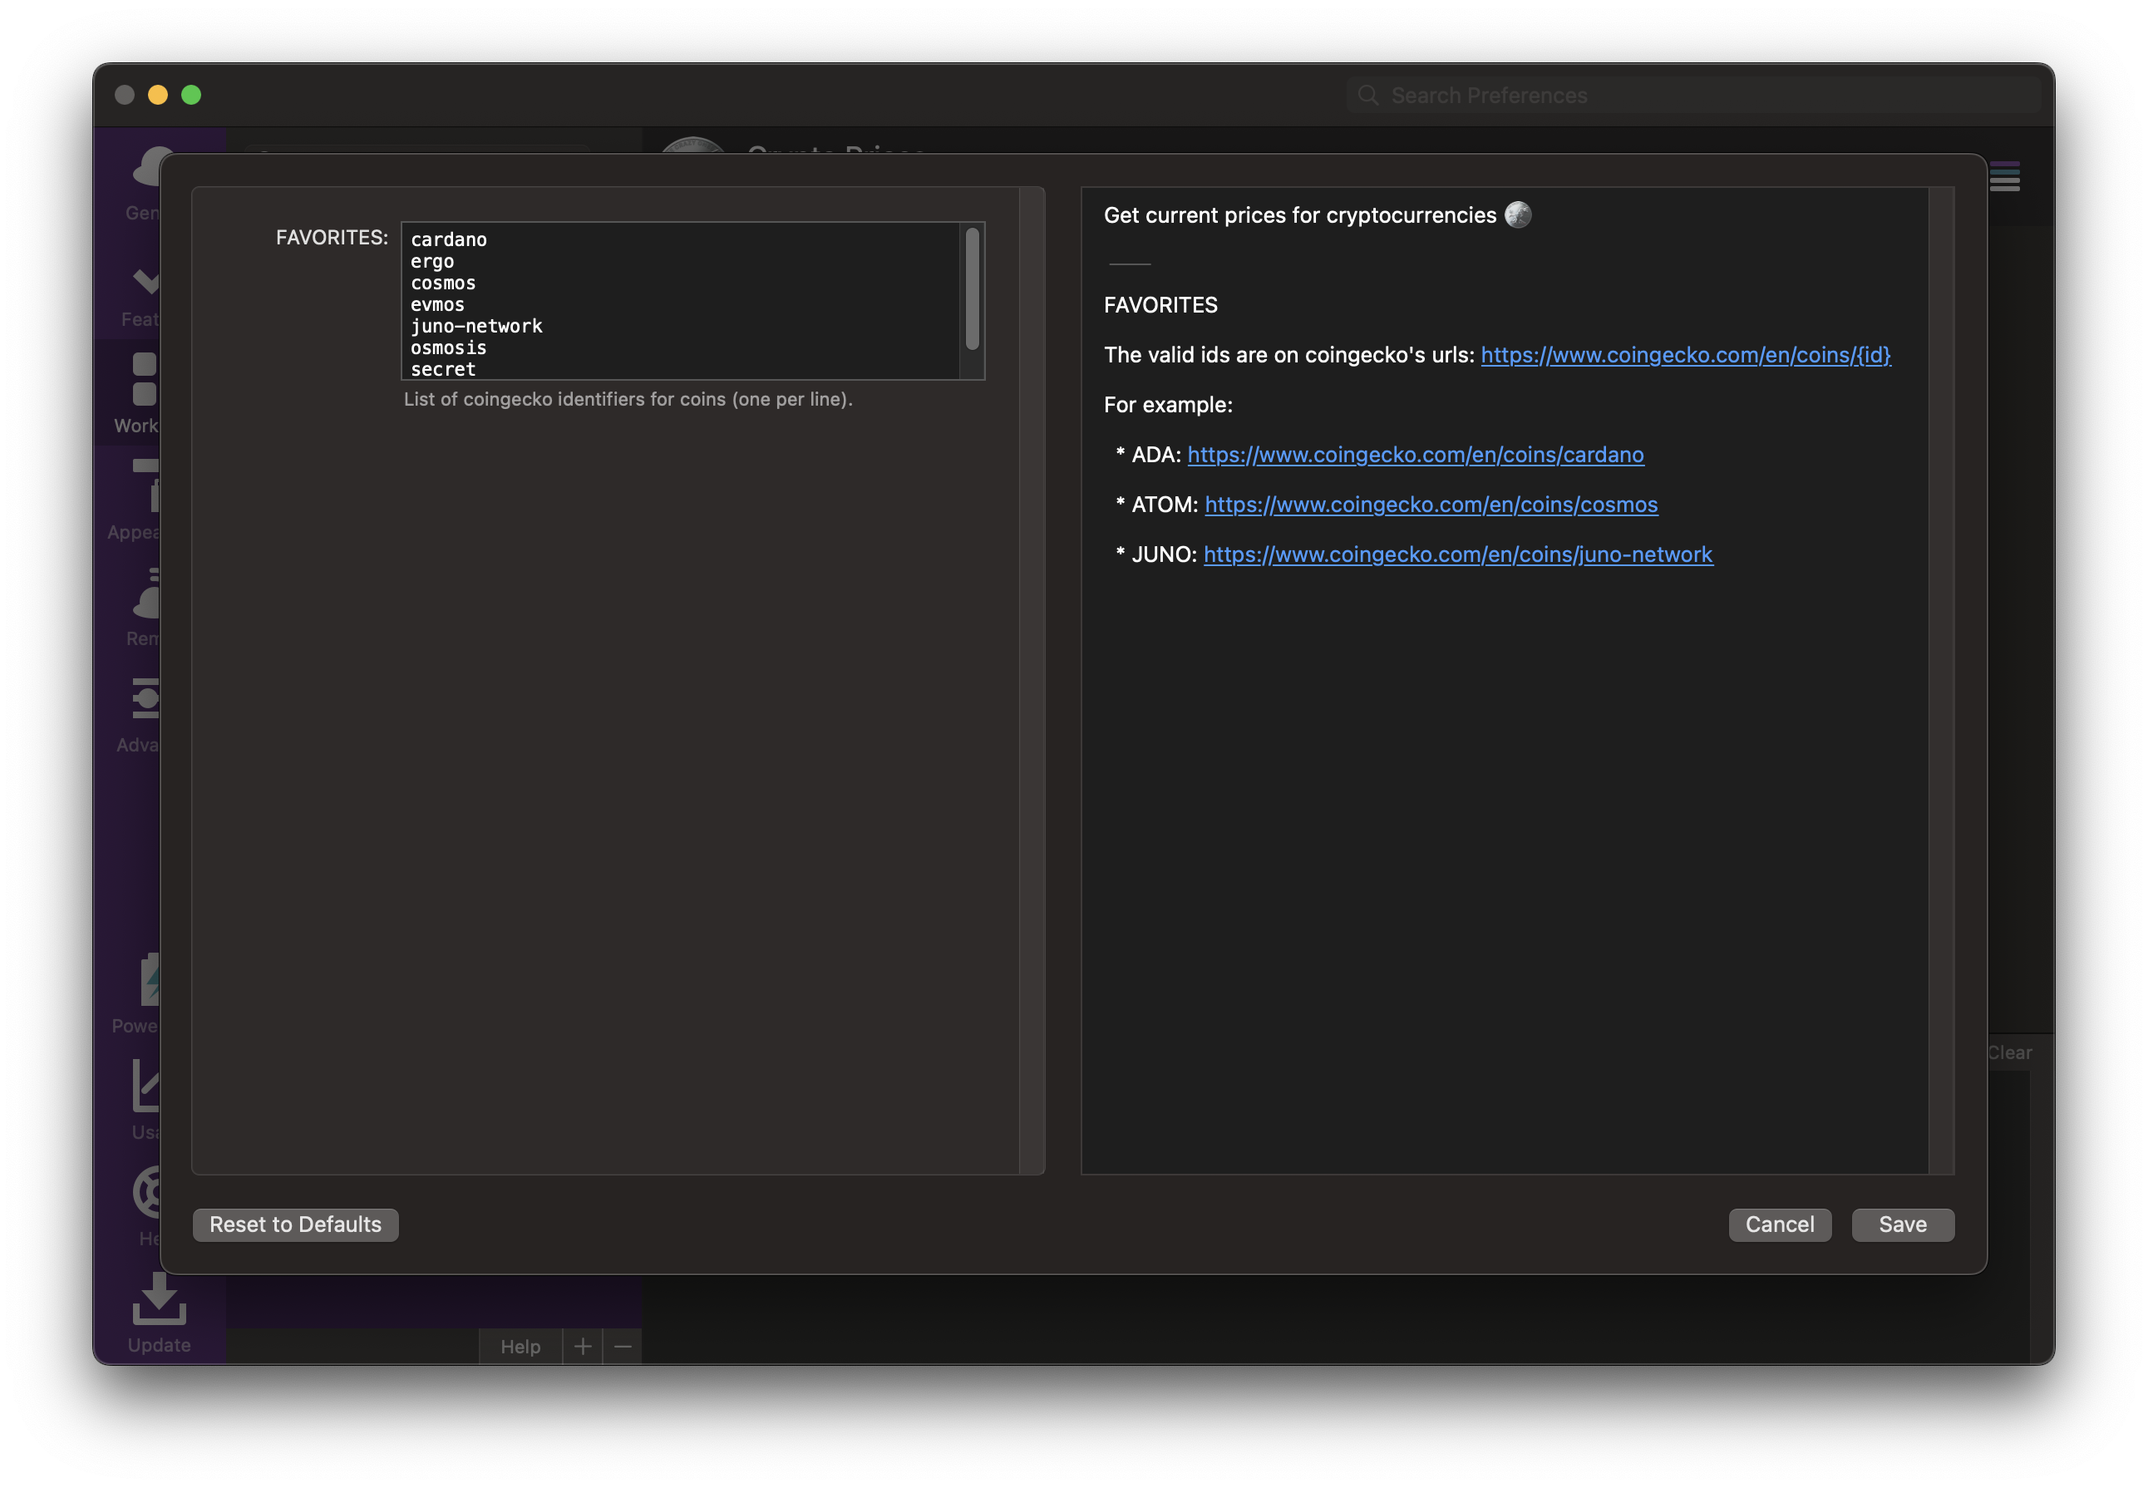
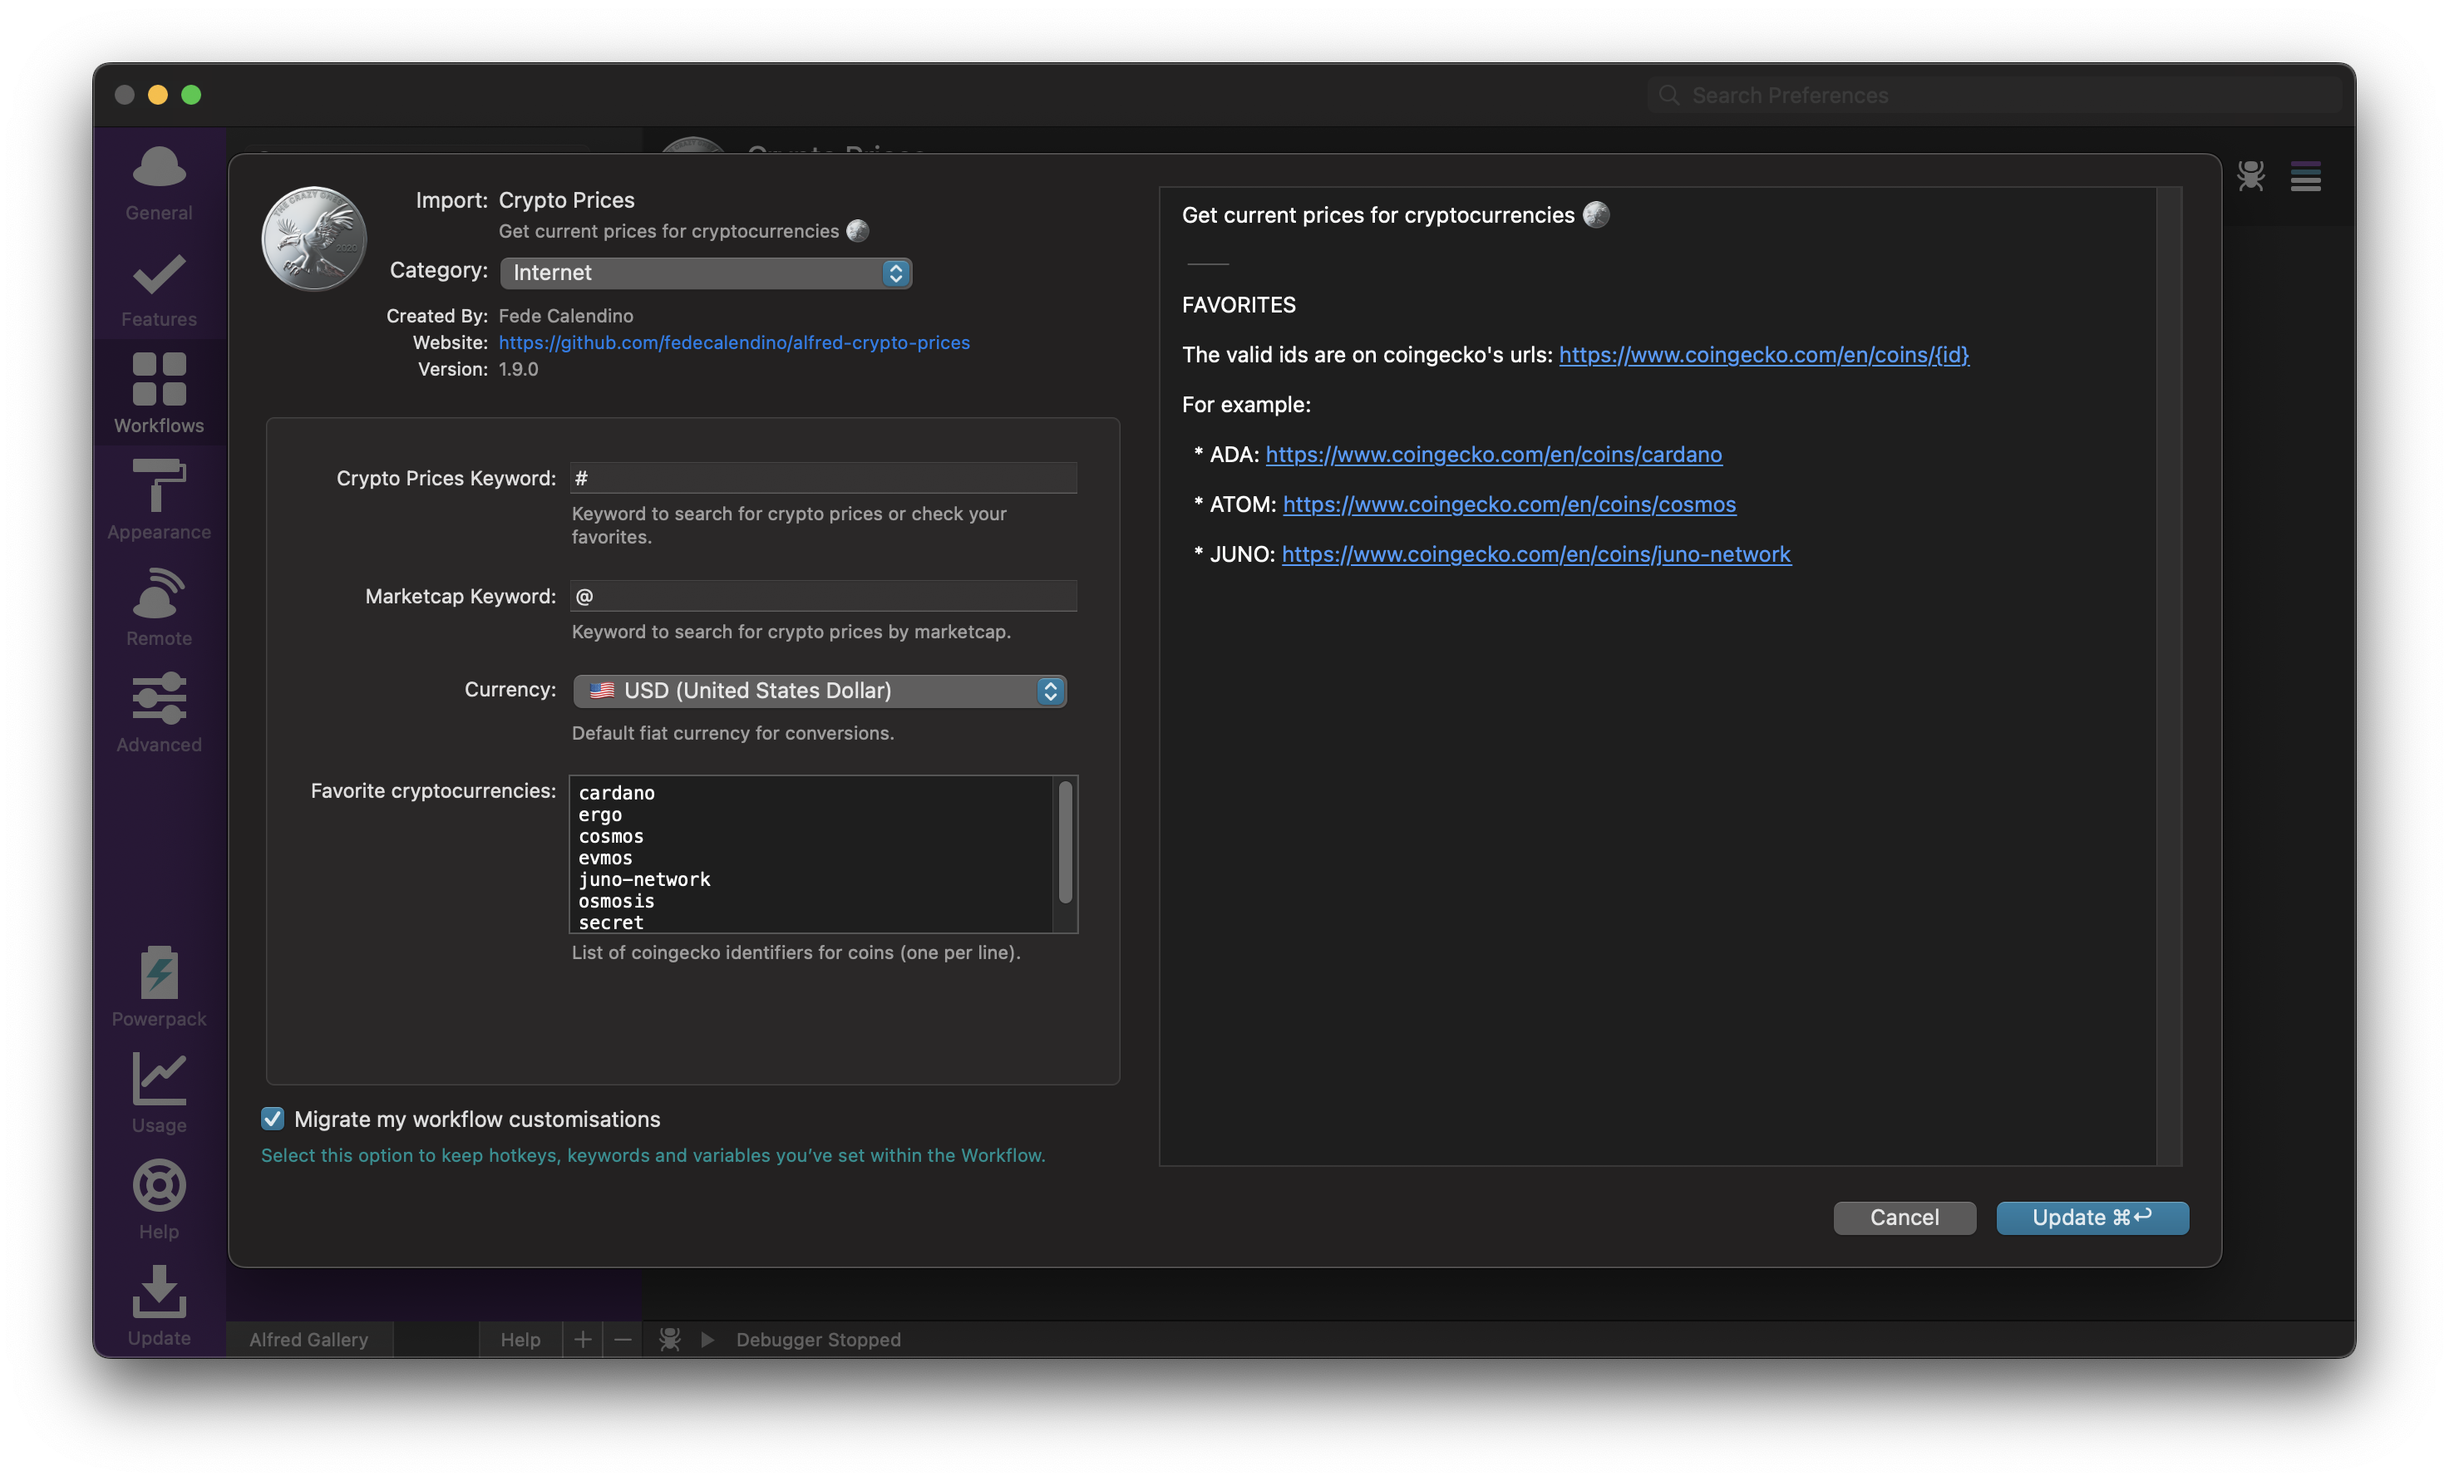
Add setting for different default currency

diff --git a/src/main.py b/src/main.py
@@ -12,15 +12,20 @@ def main(workflow):
 
     args = workflow.args
 
+    currency = workflow.env.get("CURRENCY", "USD")
+
     if not args:
         ids = workflow.env.get("FAVORITES", "").split("\n")
-        coins = coingecko.get_coins(*ids)
+        coins = coingecko.get_coins(*ids, currency=currency)
         sort_by = "price_change"
         sort_dir = "desc"
     elif args == ["marketcap"]:
-        coins = coingecko.get_coins()
+        coins = coingecko.get_coins(currency=currency)
     else:
-        coins = coingecko.search(set(map(lambda arg: arg.lower().strip(), args)))
+        coins = coingecko.search(
+            set(map(lambda arg: arg.lower().strip(), args)),
+            currency=currency,
+        )
 
     coins = sorted(
         coins,
@@ -29,11 +34,12 @@ def main(workflow):
     )
 
     for coin in coins:
-        title = "{rank} · {symbol} [{price} USD]".format(
+        title = "{rank} · {symbol} [{price} {currency}]".format(
             rank=coin["rank"],
             symbol=coin["symbol"].upper(),
             name=coin["name"],
             price=formatters.price(coin["price"]),
+            currency=currency.upper(),
         )
 
         subtitle = "24H: {change}".format(

diff --git a/src/coingecko.py b/src/coingecko.py
@@ -3,8 +3,10 @@ from pycoingecko import CoinGeckoAPI
 client = CoinGeckoAPI()
 
 
-def get_coins(*ids):
-    for coin in client.get_coins_markets("usd", ids=",".join(ids), per_page=20):
+def get_coins(*ids, currency: str = "usd"):
+    currency = currency.lower()
+
+    for coin in client.get_coins_markets(currency, ids=",".join(ids), per_page=20):
         if not coin["market_cap_rank"]:
             coin["market_cap_rank"] = -1
 
@@ -24,11 +26,11 @@ def get_coins(*ids):
         }
 
 
-def search(symbols: set = None) -> list:
+def search(symbols: set = None, currency: str = "usd") -> list:
     ids = []
 
     for coin in client.get_coins_list():
         if coin["symbol"] in symbols:
             ids.append(coin["id"])
 
-    return get_coins(*ids)
+    return get_coins(*ids, currency=currency)

diff --git a/README.md b/README.md
@@ -8,16 +8,16 @@
 ![vars example](screenshots/config.png)
 
 
-FAVORITES
+##### Favorite cryptocurrencies
 
-The valid ids are on coingecko's urls: https://www.coingecko.com/en/coins/{id}
-
+You can find the identifiers at the end of any coingecko url: https://www.coingecko.com/en/coins/{id}
 
 For example:
 
   * ADA: https://www.coingecko.com/en/coins/cardano
   * ATOM: https://www.coingecko.com/en/coins/cosmos
-  * JUNO: https://www.coingecko.com/en/coins/juno-network
+  * BTC: https://www.coingecko.com/en/coins/bitcoin
+  * ETH: https://www.coingecko.com/en/coins/ethereum
 
 
 #### Usage:
@@ -26,6 +26,8 @@ For example:
 ##### • favorites (from configuration)
 
 ![watchlist example](screenshots/favorites.png)
+
+> note: results are sorted by the 24 percent change.
 
 
 ##### • search
